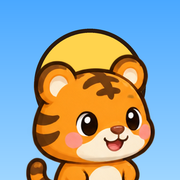
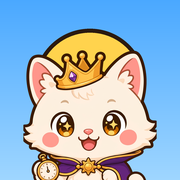
feat(pwa): 시아월드 앱 아이콘·로그인 그림을 호랑이에서 고양이로
- 홈 화면·설치 아이콘(192·512·maskable·apple-touch)·탭 아이콘·오프라인 화면 아이콘을 고양이(왕관·망토) 상반신으로 다시 만듦
  (scripts/make-app-icons.py 원본을 art/spritecook/cat/full-src.png 로)
- 로그인 화면 큰 그림도 고양이

diff --git a/index.html b/index.html
@@ -270,7 +270,7 @@
   </div>
   <div id="login-view" class="auth-wrap hidden">
     <form class="auth-card" id="login-form" novalidate>
-      <div class="brand"><img src="shared/images/zodiac/full/tiger.png" alt="" /><h1>SIA <b>WORLD</b></h1><p>로그인하고 친구들과 놀아요</p></div>
+      <div class="brand"><img src="shared/images/zodiac/full/cat.png" alt="" /><h1>SIA <b>WORLD</b></h1><p>로그인하고 친구들과 놀아요</p></div>
       <label class="field"><span>아이디</span>
         <input id="li-id" autocomplete="username" autocapitalize="off" spellcheck="false" maxlength="16" /></label>
       <label class="field"><span>비밀번호</span>

diff --git a/scripts/make-app-icons.py b/scripts/make-app-icons.py
@@ -3,7 +3,8 @@
 다시 만들 때:  python scripts/make-app-icons.py   (저장소 최상위에서, Pillow 필요)
 
 그림: 하늘 그라데이션(--sky-top → --sky-mid) 위 노란 해(--primary, 갈색 외곽선) 앞에
-십이지 어흥이(호랑이) 상반신. 원본은 SpriteCook 전신 시트 A(art/spritecook/chars-a.png)의 호랑이 칸.
+고양이(야옹이, 왕관·망토) 상반신 (2026-11-26 호랑이 → 고양이).
+원본은 SpriteCook 고양이 전신 고해상도 그림 art/spritecook/cat/full-src.png (shared/images/zodiac/full/cat.png 의 원본).
 색은 shared/theme.css 값 그대로 쓴다 (DESIGN.md: 굵은 갈색 외곽선 + 밝은 단색).
 
 만드는 파일 (shared/images/app/):
@@ -18,7 +19,7 @@ from pathlib import Path
 from PIL import Image, ImageDraw
 
 ROOT = Path(__file__).resolve().parent.parent
-SRC = ROOT / "art" / "spritecook" / "chars-a.png"
+SRC = ROOT / "art" / "spritecook" / "cat" / "full-src.png"
 OUT = ROOT / "shared" / "images" / "app"
 
 # shared/theme.css
@@ -27,15 +28,14 @@ SKY_MID = (0x9F, 0xD6, 0xFF)
 PRIMARY = (0xFF, 0xD3, 0x4D)
 OUTLINE = (0x2A, 0x1A, 0x10)
 
-# 시트(1024x1024, 4열 3줄)에서 호랑이 칸(3번째 열 첫 줄)의 머리~가슴 부분
-TIGER_BOX = (512 + 14, 78, 512 + 242, 306)
+# 원본(1912x1912)에서 왕관 끝~가슴(망토 매듭) 부분: 정사각형
+CAT_BOX = (190, 0, 1720, 1530)
 
 WORK = 1024  # 크게 그린 뒤 줄인다 (가장자리를 매끄럽게)
 
 
-def tiger() -> Image.Image:
-    sheet = Image.open(SRC).convert("RGBA")
-    return sheet.crop(TIGER_BOX)
+def cat() -> Image.Image:
+    return Image.open(SRC).convert("RGBA").crop(CAT_BOX)
 
 
 def gradient(size: int) -> Image.Image:
@@ -49,7 +49,7 @@ def gradient(size: int) -> Image.Image:
 
 
 def scene(size: int, head: float, sun: float, inset: float) -> Image.Image:
-    """꽉 찬 정사각형 그림. head: 호랑이 폭(전체 대비), sun: 해 지름(전체 대비), inset: 바깥 테두리 몫"""
+    """꽉 찬 정사각형 그림. head: 고양이 폭(전체 대비), sun: 해 지름(전체 대비), inset: 바깥 테두리 몫"""
     img = gradient(size)
     d = ImageDraw.Draw(img)
     cx = size / 2
@@ -58,8 +58,8 @@ def scene(size: int, head: float, sun: float, inset: float) -> Image.Image:
     cy = size * 0.47
     line = round(size * 0.022)
     d.ellipse([cx - r, cy - r, cx + r, cy + r], fill=PRIMARY + (255,), outline=OUTLINE + (255,), width=line)
-    # 호랑이: 가운데, 아래쪽이 테두리에 걸쳐 잘리게 (얼굴 위주 아바타처럼)
-    t = tiger()
+    # 고양이: 가운데, 아래쪽이 테두리에 걸쳐 잘리게 (얼굴 위주 아바타처럼)
+    t = cat()
     w = round(size * head)
     h = round(t.height * w / t.width)
     t = t.resize((w, h), Image.LANCZOS)
